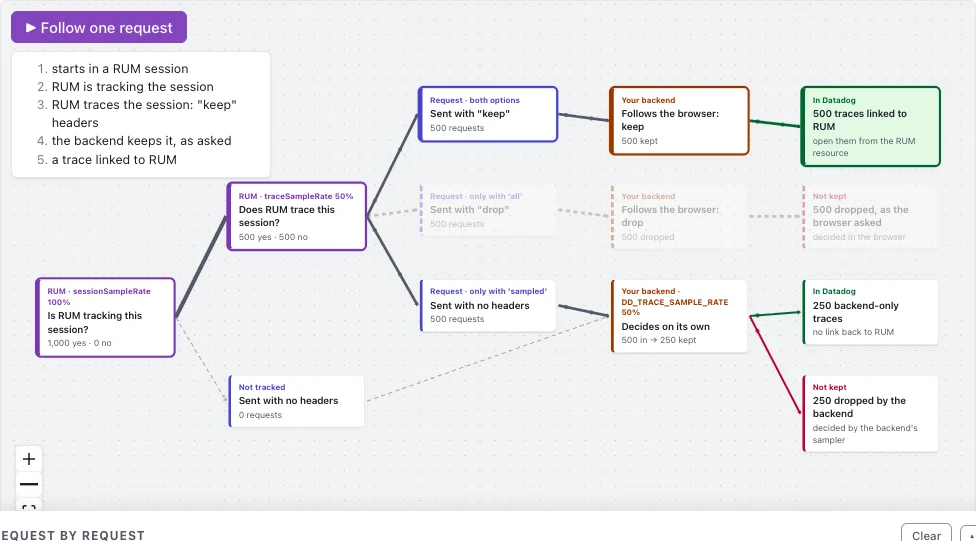
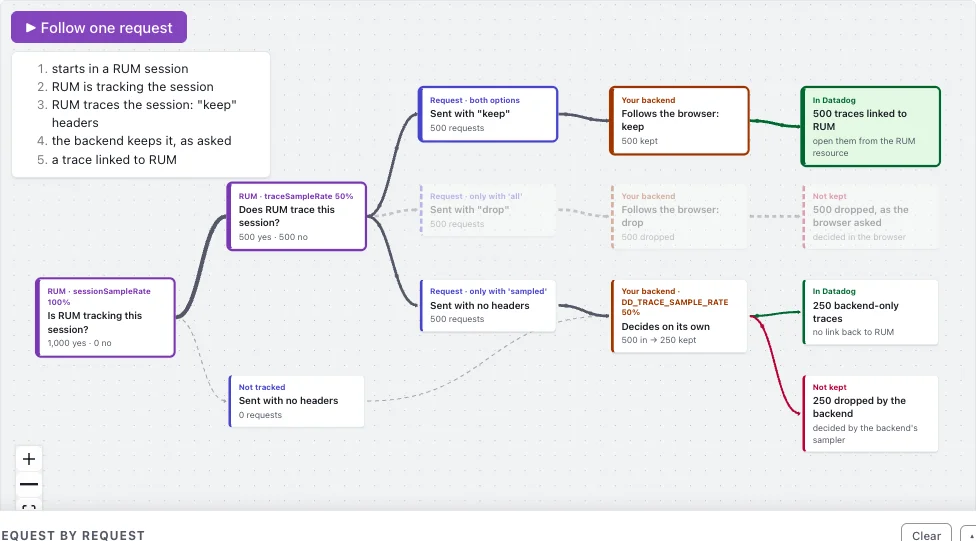
Curve the flow edges; keep nodes in level lanes

diff --git a/trace-sampling-lab/src/SamplingFlow.jsx b/trace-sampling-lab/src/SamplingFlow.jsx
@@ -7,7 +7,7 @@
 // model. The Requests tab is where the real SDK is measured.
 
 import React, { useEffect, useMemo, useRef, useState } from 'react';
-import { BaseEdge, Background, Controls, Handle, MarkerType, Panel, Position, ReactFlow, getStraightPath } from '@xyflow/react';
+import { BaseEdge, Background, Controls, Handle, MarkerType, Panel, Position, ReactFlow, getBezierPath } from '@xyflow/react';
 
 const COL = 280;
 const ROW = 140;
@@ -35,7 +35,7 @@ export function model({ requests, sessionRate, traceRate, apmRate, injection }) 
 }
 
 // Rows are lanes: keep → row 0, drop → row 1, backend decides → row 2,
-// so most edges run straight across.
+// so most edges run level and only the branches curve.
 //
 // `route` marks the nodes and edges that only exist under one injection mode.
 // Each node has a plain-language `detail` for the panel under the canvas and
@@ -173,11 +173,11 @@ function FlowNode({ data }) {
   );
 }
 
-// A straight line with dots moving along it, more of them on busier edges,
+// A curve with dots moving along it, more of them on busier edges,
 // plus the token for the request being followed when it's on this edge.
 // SMIL rather than CSS: animateMotion follows the edge's own path.
-function FlowEdge({ id, sourceX, sourceY, targetX, targetY, style, markerEnd, data }) {
-  const [path] = getStraightPath({ sourceX, sourceY, targetX, targetY });
+function FlowEdge({ id, sourceX, sourceY, targetX, targetY, sourcePosition, targetPosition, style, markerEnd, data }) {
+  const [path] = getBezierPath({ sourceX, sourceY, sourcePosition, targetX, targetY, targetPosition });
   const token = useRef(null);
   useEffect(() => { if (data.token) token.current?.beginElement(); }, [data.token]);
   return (
